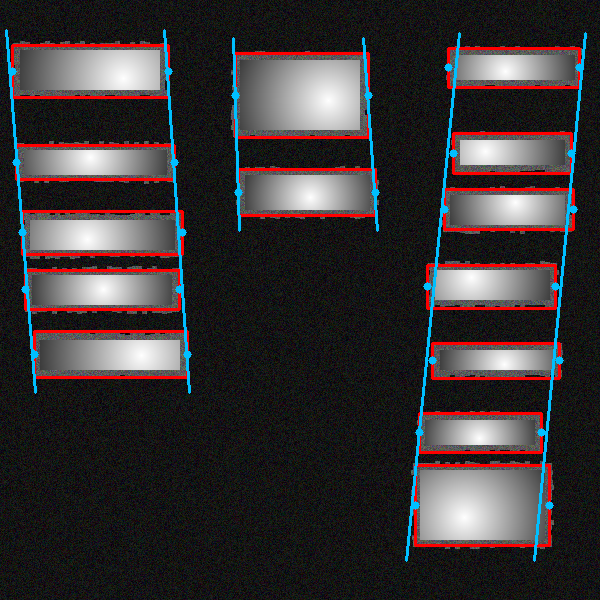
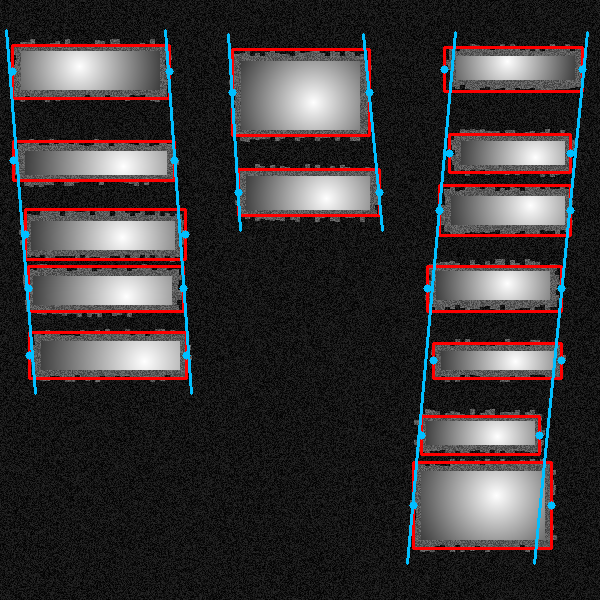
Improve demo code readability and rigor, update output images

diff --git a/demo/gel_functions.py b/demo/gel_functions.py
@@ -1,6 +1,39 @@
 import cv2
 import numpy as np
 
+# 初始化BGR相同的三通道图像
+def initialize_img(height, width):
+    max_bg_gray = 40 # 背景区域最大灰度值
+    
+    # 创建灰度值有一定波动的单通道
+    gray_channel = np.random.randint(0, max_bg_gray, (height, width), np.uint8)
+    # 扩展为BGR相同的三通道
+    img = cv2.merge([gray_channel, gray_channel, gray_channel])
+    
+    return img
+
+# 改变图像中指定区域内的灰度值为固定值或者区间内的随机值
+def change_area_gray_value(img, x1, x2, y1, y2, value = -1, interval = [-1, -1]):
+    # 确保坐标顺序正确
+    x1, x2 = sorted([x1, x2])
+    y1, y2 = sorted([y1, y2])
+    # 避免处理区域为一列或一行的情况时的报错
+    x2, y2 = x2 + 1, y2 + 1
+
+    region = img[y1: y2, x1: x2] # 截取出目标区域
+    
+    if value >= 0: # 改变区域内灰度值为固定值
+        region[:, :, 0] = value
+        region[:, :, 1] = value
+        region[:, :, 2] = value
+        
+    if len(interval) == 2 and interval[0] >= 0 and interval[1] >= 0: # 改变区域内灰度值为区间内随机数
+        min_gray, max_gray = sorted(interval)
+        gray_values = np.random.randint(min_gray, max_gray, (y2 - y1, x2 - x1), dtype=np.uint8)
+        region[:, :, 0] = gray_values
+        region[:, :, 1] = gray_values
+        region[:, :, 2] = gray_values
+
 # 用径向渐变填充条带内部，中心点坐标需输入，中心最亮，边缘渐暗，参数坐标格式均为(x, y)
 def fill_in_band(img, center = (0, 0), point_list = [], border_list = [], internal_list = []):
     if len(point_list) > 0: # 输入了顶点列表，要处理的是四边形条带
@@ -69,8 +102,15 @@ def fill_in_band(img, center = (0, 0), point_list = [], border_list = [], intern
             img[y, x] = (gray, gray, gray)
 
 # 为矩形或一般四边形条带添加锯齿边缘
-def add_jagged_border(img, point_list):
+def add_jagged_border(img, point_list, is_few_bands = True):
+    # 若图像中条带数较少，则可将锯齿边缘延长得更多些
+    max_extend, corner_extend = 12, 6
+    if is_few_bands == True:
+        max_extend, corner_extend = 20, 10
+    min_extend = max_extend // 3
+    
     min_gray_value, max_gray_value = 60, 120 # 锯齿边缘的灰度值范围
+    interval = [min_gray_value, max_gray_value]
     
     if len(point_list) == 2: # 输入的是矩形的左上、右下顶点
         corner1_x, corner1_y = point_list[0]
@@ -80,35 +120,39 @@ def add_jagged_border(img, point_list):
         y = corner1_y
         for x in range(corner1_x, corner2_x):
             if (x - corner1_x) % 5 == 0: # 每5个像素点改变一次锯齿长度，减少尖锐感
-                extend = np.random.randint(5, 10) # 向外延伸像素点数，5-9随机整数
-            img[y - extend: y, x] = np.random.randint(min_gray_value, max_gray_value, (extend, 3), np.uint8)
+                extend = np.random.randint(min_extend, max_extend) # 向外延伸像素点数
+            change_area_gray_value(img, x, x, y - extend, y, interval=interval)
         # 为条带下侧边添加锯齿边缘
         y = corner2_y
         for x in range(corner1_x, corner2_x):
             if (x - corner1_x) % 5 == 0: # 每5个像素点改变一次锯齿长度，减少尖锐感
-                extend = np.random.randint(5, 10) # 向外延伸像素点数，5-9随机整数
-            img[y: y + extend, x] = np.random.randint(min_gray_value, max_gray_value, (extend, 3), np.uint8)
+                extend = np.random.randint(min_extend, max_extend) # 向外延伸像素点数
+            change_area_gray_value(img, x, x, y + extend, y, interval=interval)
         # 为条带左侧边添加锯齿边缘
         x = corner1_x
         for y in range(corner1_y, corner2_y):
             if (y - corner1_y) % 5 == 0: # 每5个像素点改变一次锯齿长度，减少尖锐感
-                extend = np.random.randint(5, 10) # 向外延伸像素点数，5-9随机整数
-            img[y, x - extend: x] = np.random.randint(min_gray_value, max_gray_value, (extend, 3), np.uint8)
+                extend = np.random.randint(min_extend, max_extend) # 向外延伸像素点数
+            change_area_gray_value(img, x - extend, x, y, y, interval=interval)
         # 为条带右侧边添加锯齿边缘
         x = corner2_x
         for y in range(corner1_y, corner2_y):
             if (y - corner1_y) % 5 == 0: # 每5个像素点改变一次锯齿长度，减少尖锐感
-                extend = np.random.randint(5, 10) # 向外延伸像素点数，5-9随机整数
-            img[y, x: x + extend] = np.random.randint(min_gray_value, max_gray_value, (extend, 3), np.uint8)
-            
+                extend = np.random.randint(min_extend, max_extend) # 向外延伸像素点数
+            change_area_gray_value(img, x + extend, x, y, y, interval=interval)
+        
         # 处理左上顶点
-        img[corner1_y - 7: corner1_y, corner1_x - 7: corner1_x] = np.random.randint(min_gray_value, max_gray_value, (7, 7, 3), np.uint8)
+        change_area_gray_value(img, 
+            corner1_x - corner_extend, corner1_x, corner1_y - corner_extend, corner1_y, interval=interval)
         # 处理左下顶点
-        img[corner2_y: corner2_y + 7, corner1_x - 7: corner1_x] = np.random.randint(min_gray_value, max_gray_value, (7, 7, 3), np.uint8)
+        change_area_gray_value(img, 
+            corner1_x - corner_extend, corner1_x, corner2_y + corner_extend, corner2_y, interval=interval)
         # 处理右上顶点
-        img[corner1_y - 7: corner1_y, corner2_x: corner2_x + 7] = np.random.randint(min_gray_value, max_gray_value, (7, 7, 3), np.uint8)
+        change_area_gray_value(img, 
+            corner2_x + corner_extend, corner2_x, corner1_y - corner_extend, corner1_y, interval=interval)
         # 处理右下顶点
-        img[corner2_y: corner2_y + 7, corner2_x: corner2_x + 7] = np.random.randint(min_gray_value, max_gray_value, (7, 7, 3), np.uint8)
+        change_area_gray_value(img, 
+            corner2_x + corner_extend, corner2_x, corner2_y + corner_extend, corner2_y, interval=interval)
     
     if len(point_list) == 4: # 输入的是一般四边形的四个顶点，左上顶点开始沿顺时针顺序排列
         pt1, pt2, pt3, pt4 = point_list
@@ -129,8 +173,8 @@ def add_jagged_border(img, point_list):
                 for j in range(len(border_list)):
                     x, y = border_list[j]
                     if j % 5 == 0: # 每5个像素点改变一次锯齿长度，减少尖锐感
-                        extend = np.random.randint(8, 16) # 向外延伸像素点数，5-9随机整数
-                    img[y - extend: y, x] = np.random.randint(min_gray_value, max_gray_value, (extend, 3), np.uint8)
+                        extend = np.random.randint(min_extend, max_extend) # 向外延伸像素点数
+                    change_area_gray_value(img, x, x, y - extend, y, interval=interval)
             # 为条带下侧边添加锯齿边缘
             if i == 2:
                 # 处理相对水平线时遍历x得到y，int()向下取整保证点在条带内部
@@ -138,8 +182,8 @@ def add_jagged_border(img, point_list):
                 for j in range(len(border_list)):
                     x, y = border_list[j]
                     if j % 5 == 0: # 每5个像素点改变一次锯齿长度，减少尖锐感
-                        extend = np.random.randint(8, 16) # 向外延伸像素点数，5-9随机整数
-                    img[y: y + extend, x] = np.random.randint(min_gray_value, max_gray_value, (extend, 3), np.uint8)
+                        extend = np.random.randint(min_extend, max_extend) # 向外延伸像素点数
+                    change_area_gray_value(img, x, x, y + extend, y, interval=interval)
             # 为条带右侧边添加锯齿边缘
             if i == 1:
                 # 处理相对竖直线时遍历y得到x，int()向下取整保证点在条带内部
@@ -147,8 +191,8 @@ def add_jagged_border(img, point_list):
                 for j in range(len(border_list)):
                     x, y = border_list[j]
                     if j % 5 == 0: # 每5个像素点改变一次锯齿长度，减少尖锐感
-                        extend = np.random.randint(8, 16) # 向外延伸像素点数，5-9随机整数
-                    img[y, x: x + extend] = np.random.randint(min_gray_value, max_gray_value, (extend, 3), np.uint8)
+                        extend = np.random.randint(min_extend, max_extend) # 向外延伸像素点数
+                    change_area_gray_value(img, x + extend, x, y, y, interval=interval)
             # 为条带左侧边添加锯齿边缘
             if i == 3:
                 # 处理相对竖直线时遍历y得到x，int() + 1向上取整保证点在条带内部
@@ -156,19 +200,24 @@ def add_jagged_border(img, point_list):
                 for j in range(len(border_list)):
                     x, y = border_list[j]
                     if j % 5 == 0: # 每5个像素点改变一次锯齿长度，减少尖锐感
-                        extend = np.random.randint(8, 16) # 向外延伸像素点数，5-9随机整数
-                    img[y, x - extend: x] = np.random.randint(min_gray_value, max_gray_value, (extend, 3), np.uint8)
+                        extend = np.random.randint(min_extend, max_extend) # 向外延伸像素点数
+                    change_area_gray_value(img, x - extend, x, y, y, interval=interval)
+        
         # 处理左上顶点
-        img[pt1[1] - 12: pt1[1], pt1[0] - 12: pt1[0]] = np.random.randint(min_gray_value, max_gray_value, (12, 12, 3), np.uint8)
+        change_area_gray_value(img, 
+            pt1[0] - corner_extend, pt1[0], pt1[1] - corner_extend, pt1[1], interval=interval)
         # 处理右上顶点
-        img[pt2[1] - 12: pt2[1], pt2[0]: pt2[0] + 12] = np.random.randint(min_gray_value, max_gray_value, (12, 12, 3), np.uint8)
+        change_area_gray_value(img, 
+            pt2[0] + corner_extend, pt2[0], pt2[1] - corner_extend, pt2[1], interval=interval)
         # 处理右下顶点
-        img[pt3[1]: pt3[1] + 12, pt3[0]: pt3[0] + 12] = np.random.randint(min_gray_value, max_gray_value, (12, 12, 3), np.uint8)
+        change_area_gray_value(img, 
+            pt3[0] + corner_extend, pt3[0], pt3[1] + corner_extend, pt3[1], interval=interval)
         # 处理左下顶点
-        img[pt4[1]: pt4[1] + 12, pt4[0] - 12: pt4[0]] = np.random.randint(min_gray_value, max_gray_value, (12, 12, 3), np.uint8)
+        change_area_gray_value(img, 
+            pt4[0] - corner_extend, pt4[0], pt4[1] + corner_extend, pt4[1], interval=interval)
 
 # 构建理想情况下的矩形条带，含内部渐变灰度值，锯齿边缘
-def build_regular_bands(img, rect_band_corner1_list, rect_band_corner2_list):
+def build_regular_bands(img, rect_band_corner1_list, rect_band_corner2_list, is_few_bands = True):
     center_list = []
     for i in range(len(rect_band_corner1_list)):
         corner1 = rect_band_corner1_list[i]
@@ -185,7 +234,7 @@ def build_regular_bands(img, rect_band_corner1_list, rect_band_corner2_list):
         center_list.append(center)
         
         fill_in_band(img, center=center, point_list=point_list)
-        add_jagged_border(img, point_list=point_list)
+        add_jagged_border(img, point_list=point_list, is_few_bands=is_few_bands)
     
     if len(center_list) == 1:
         return center_list[0]
@@ -246,7 +295,7 @@ def detect_rect_bands(img, center_list, is_guide_line = False):
     return detect_corner1_list, detect_corner2_list
 
 # 依据同泳道内条带的同侧边中点，做线性拟合得到泳道检测线
-def draw_lanes(img, detect_corner1_list, detect_corner2_list):
+def fit_lanes(img, detect_corner1_list, detect_corner2_list):
     mid_point1_list = [] # 存储条带左侧边中点的列表
     mid_point2_list = [] # 存储条带右侧边中点的列表
     for i in range(len(detect_corner1_list)):
@@ -288,11 +337,11 @@ def draw_lanes(img, detect_corner1_list, detect_corner2_list):
         cv2.line(img, (min_x, min_y), (max_x, max_y), (255, 191, 0), 2)
 
 # 构建两个非常规的条带（一般四边形和不规则图形），含内部渐变灰度值
-def build_irregular_bands(img, center_pair, point_list):
+def build_irregular_bands(img, center_pair, point_list, is_few_bands = True):
     # 填充一般四边形条带的内部灰度值
     poly_center = center_pair[0] # 一般四边形条带的中心点
     fill_in_band(img, center=poly_center, point_list=point_list)
-    add_jagged_border(img, point_list)
+    add_jagged_border(img, point_list, is_few_bands=is_few_bands)
     
     # 填充不规则图形条带的内部灰度值
     tooth_center = center_pair[1] # 不规则图形（牙齿状）条带的中心点
@@ -350,7 +399,7 @@ def get_border_points(img, threshold):
         gray_img = img.copy()
     
     # 创建内部掩码
-    internal_mask = (gray_img > threshold).astype(np.uint8) * 255
+    internal_mask = (gray_img >= threshold).astype(np.uint8) * 255
     
     # 获取内部点的坐标
     internal_y_list, internal_x_list = np.where(internal_mask == 255)
@@ -366,7 +415,7 @@ def get_border_points(img, threshold):
         # 检查上下左右是否至少有一个方向没有内部点
         has_external_neighbor = False
         for dx, dy in directions:
-            neighbor = (x + dx, y + dy)
+            neighbor = (x + dx * 1, y + dy * 1)
             if neighbor not in internal_set:
                 has_external_neighbor = True
                 break
@@ -396,7 +445,7 @@ def sort_border_points(points):
         for point in remaining_points:
             dx = point[0] - current_point[0]
             dy = point[1] - current_point[1]
-            dist = dx*dx + dy*dy  # 使用平方距离避免开方
+            dist = dx * dx + dy * dy  # 使用平方距离避免开方
             
             if dist < min_distance and dist > 0:
                 min_distance = dist

diff --git a/demo/visualization.py b/demo/visualization.py
@@ -5,12 +5,12 @@ from gel_functions import *
 def main():
     # 基础设置
     height, width = 250, 400
-    img1 = np.random.randint(0, 40, (height, width, 3), np.uint8) # 存在噪声的黑色背景
+    img1 = initialize_img(height, width)
     
     rect_point_list = [(80, 80), (350, 175)] # 条带参数，矩形左上、右下顶点
     
     # 绘制原图，只含一个矩形条带
-    center = build_regular_bands(img1, [rect_point_list[0]], [rect_point_list[1]])
+    center = build_regular_bands(img1, [rect_point_list[0]], [rect_point_list[1]], is_few_bands=True)
     cv2.imwrite("images/01_single_band_original.png", img1)
     # 画出中心点至边界的辅助线与条带检测框
     detect_rect_bands(img1, [center], is_guide_line=True)
@@ -18,7 +18,7 @@ def main():
     
     # 基础设置
     height, width = 600, 600
-    img2 = np.random.randint(0, 40, (height, width, 3), np.uint8) # 存在噪声的黑色背景
+    img2 = initialize_img(height, width)
 
     # 条带参数
     # 3个泳道中分别有5/2/7个条带，共14个
@@ -34,23 +34,23 @@ def main():
         (575, 80),  (565, 165), (565, 225), (550, 300), (555, 370), (535, 445), (545, 540)]
     
     # 构造3个泳道内共14个矩形条带
-    center_list = build_regular_bands(img2, rect_band_corner1_list, rect_band_corner2_list)
+    center_list = build_regular_bands(img2, rect_band_corner1_list, rect_band_corner2_list, is_few_bands=False)
     cv2.imwrite("images/03_multi_lanes_original.png", img2)
     # 画出条带检测框和泳道检测线
     detect_corner1_list, detect_corner2_list = detect_rect_bands(img2, center_list)
     cv2.imwrite("images/04_multi_bands_detected.png", img2)
-    draw_lanes(img2, detect_corner1_list, detect_corner2_list)
+    fit_lanes(img2, detect_corner1_list, detect_corner2_list)
     cv2.imwrite("images/05_lanes_reconstructed.png", img2)
     
     # 基础设置
     height, width = 600, 400
-    img3 = np.random.randint(0, 40, (height, width, 3), np.uint8) # 存在噪声的黑色背景
+    img3 = initialize_img(height, width)
     
     poly_point_list = [(90, 65), (335, 115), (355, 250), (75, 195)] # 条带参数，一般四边形条带的四个顶点
     center_pair = [(215, 125), (150, 450)] # 条带参数，一般四边形条带与不规则图形条带的中心点
     
     # 构造一般四边形与不规则图形的条带
-    build_irregular_bands(img3, center_pair, poly_point_list)
+    build_irregular_bands(img3, center_pair, poly_point_list, is_few_bands=True)
     img4 = img3.copy() # 创建原图的副本
     cv2.imwrite("images/06_irregular_original.png", img3)
     # 展示阶段1的检测方法
@@ -59,8 +59,6 @@ def main():
     #展示阶段2的检测方法
     detect_irregular_bands(is_from_real_gel=False, img=img4)
     cv2.imwrite("images/08_phase2_contour_detection.png", img4)
-    
-    cv2.waitKey(0)
 
 if __name__ == "__main__":
     main()
